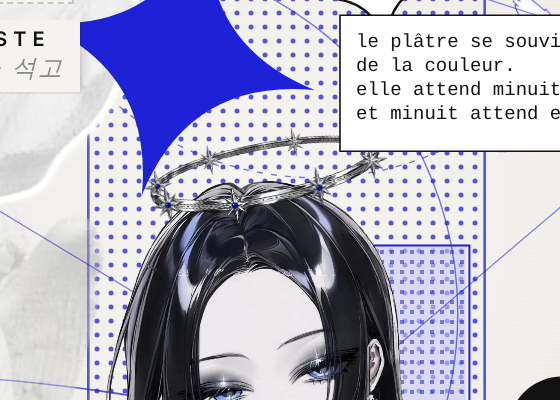
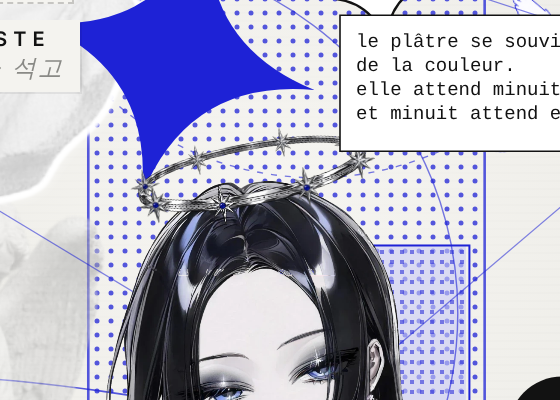
헤일로 왼쪽으로 조금 이동
Claude-Session: https://claude.ai/code/session_015z2jERGhkXRnxmKCmzk3Uw

Changed region(s): [[0.2429, 0.33, 0.6982, 0.57]]

diff --git a/work/celeste/app/index.html b/work/celeste/app/index.html
@@ -211,7 +211,7 @@ const OBJS = ['angel','arch','armillary','astronaut','birdcage','book','bust','c
 const PARTS = '../parts/';
 // 원화(1228×2416)에서 무대에 보일 세로 범위: 머리 위 ~ 난간 아래
 const IW = 1228, IH = 2416, VIEW_Y0 = 330, VIEW_Y1 = 2150;
-const HALO = {x:601, y:382, rx:270, rot:-11};    // 원화 좌표, 정수리를 감싸는 높이·그림 속 머리 기울기
+const HALO = {x:572, y:382, rx:270, rot:-11};    // 원화 좌표, 정수리를 감싸는 높이·그림 속 머리 기울기
 
 /* ═══ 날짜로 정해지는 난수: 같은 날엔 같은 콜라주 ═══ */
 function rngOf(str){ let h = 2166136261; for(const c of str){ h ^= c.charCodeAt(0); h = Math.imul(h, 16777619); }
